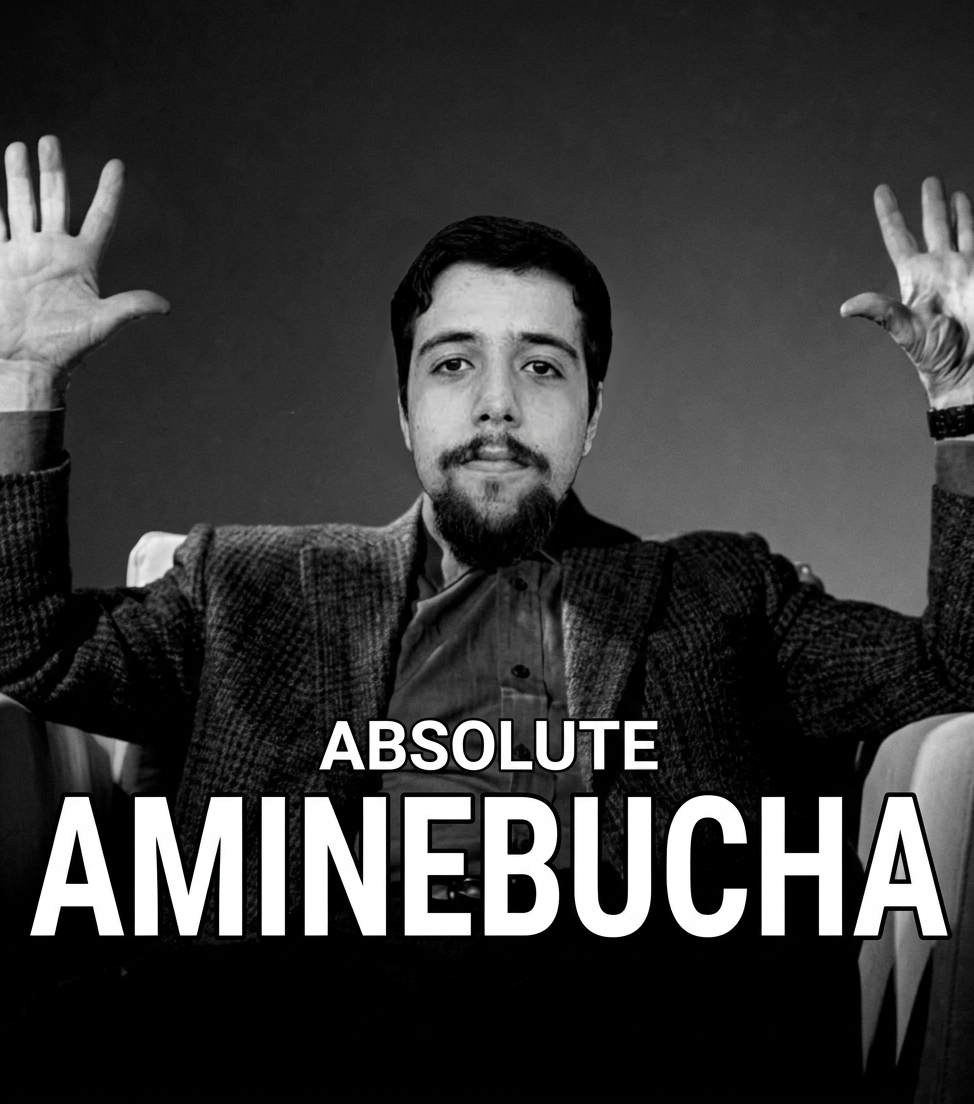
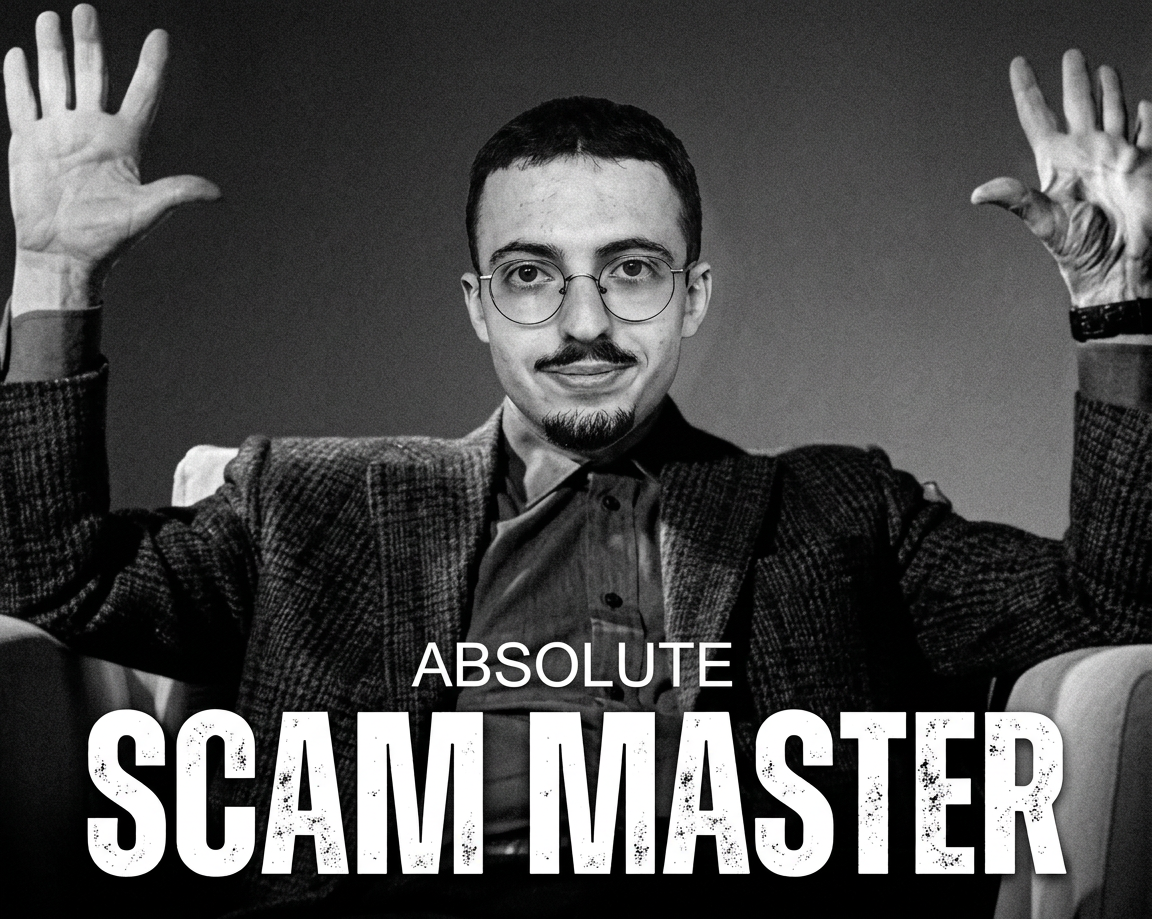
scam master

diff --git a/La_quete_de_phillipe/src/delaterrealassiette/EcranTransition.java b/La_quete_de_phillipe/src/delaterrealassiette/EcranTransition.java
@@ -1,4 +1,3 @@
-// EcranTransition.java
 package delaterrealassiette;
 
 import java.awt.AlphaComposite;
@@ -26,9 +25,12 @@ import javax.imageio.ImageIO;
  * ________________________________________________________________ */
 public class EcranTransition {
 
-    public static final int DUREE_TICS = 75;        // 3 s à 25 tics par seconde
-    public static final int TICS_AVANT_PASSER = 25; // 1 s avant de pouvoir passer
-    private static final int TICS_FONDU = 8;        // apparition / disparition
+    /** Durée totale : 3 s à 25 ticks par seconde. */
+    public static final int DUREE_TICS = 75;
+    /** Délai avant de pouvoir passer l'écran : 1 s. */
+    public static final int TICS_AVANT_PASSER = 25;
+    /** Durée du fondu d'apparition et de disparition. */
+    private static final int TICS_FONDU = 8;
 
     private static final Color COULEUR_FOND = new Color(18, 20, 28);
     private static final Color COULEUR_OR = new Color(255, 220, 95);
@@ -43,28 +45,22 @@ public class EcranTransition {
     private int niveauSuivant;
     private boolean espacePrecedemmentAppuye;
 
-    /* ________________________________________________________________
-     * ACTION : Lance la transition entre deux niveaux.
-     * ________________________________________________________________ */
     public void demarrer(int niveauTermine, int niveauSuivant) {
         this.niveauTermine = niveauTermine;
         this.niveauSuivant = niveauSuivant;
         ticsRestants = DUREE_TICS;
-        espacePrecedemmentAppuye = true; // ignore un Espace déjà enfoncé
+        // Un Espace déjà enfoncé (saut) ne doit pas passer l'écran
+        espacePrecedemmentAppuye = true;
     }
 
-    /* ________________________________________________________________
-     * ACTION : Indique si la transition est en cours.
-     * ________________________________________________________________ */
     public boolean estActive() {
         return ticsRestants > 0;
     }
 
-    /* ________________________________________________________________
-     * ACTION : Avance la transition d'un tic.
-     * [INFO] Un nouvel appui sur Espace (après 1 s) passe directement
-     *        à la fin du fondu de sortie.
-     * ________________________________________________________________ */
+    /**
+     * Avance d'un tick ; un nouvel appui sur Espace (front montant) après le
+     * délai minimal saute directement au fondu de sortie.
+     */
     public void avancer(boolean espaceAppuye) {
         if (!estActive()) {
             return;
@@ -79,9 +75,7 @@ public class EcranTransition {
         ticsRestants--;
     }
 
-    /* ________________________________________________________________
-     * ACTION : Dessine l'écran de transition par-dessus l'image du jeu.
-     * ________________________________________________________________ */
+    /** Dessine l'écran par-dessus l'image du jeu, avec l'opacité du fondu en cours. */
     public void dessiner(Graphics2D contexte, int largeur, int hauteur) {
         int ticsEcoules = DUREE_TICS - ticsRestants;
         float opacite = Math.min(1f, Math.min(ticsEcoules, ticsRestants) / (float) TICS_FONDU);
@@ -108,7 +102,7 @@ public class EcranTransition {
         dessinerTexteCentre(contexte, "NIVEAU " + niveauSuivant,
                 new Font("SansSerif", Font.BOLD, 140), centreTexteX, centreY + 40);
 
-        // Barre de chargement
+        // Barre de chargement : pleine juste avant le fondu de sortie
         int largeurBarre = 600;
         int hauteurBarre = 16;
         int xBarre = centreTexteX - largeurBarre / 2;
@@ -155,11 +149,19 @@ public class EcranTransition {
         contexte.setColor(new Color(0, 0, 0, 170));
         contexte.fillRect(0, 0, largeur, hauteur);
 
-        // Image entière, à gauche, sur toute la hauteur
+        // Image entière, à gauche, sur toute la hauteur ; si elle est trop
+        // large, elle est réduite à la moitié de l'écran et centrée en hauteur
+        // pour laisser la place au texte à droite
         int hauteurImage = hauteur;
         int largeurImage = image.getWidth() * hauteurImage / image.getHeight();
+        int largeurMax = largeur / 2;
+        if (largeurImage > largeurMax) {
+            largeurImage = largeurMax;
+            hauteurImage = image.getHeight() * largeurImage / image.getWidth();
+        }
         int xImage = largeur / 20;
-        contexte.drawImage(image, xImage, 0, largeurImage, hauteurImage, null);
+        int yImage = (hauteur - hauteurImage) / 2;
+        contexte.drawImage(image, xImage, yImage, largeurImage, hauteurImage, null);
 
         // Ombre douce entre l'image et le texte
         contexte.setPaint(new java.awt.GradientPaint(xImage + largeurImage - 40, 0,
